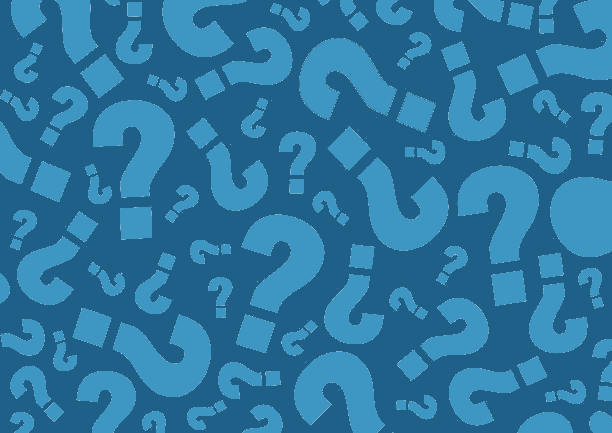
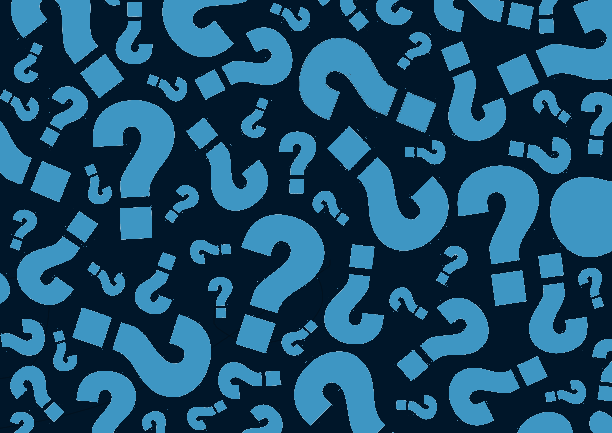
Better dark background + Fixed flashing bug + fixed instant death

diff --git a/src/controller.py b/src/controller.py
@@ -165,7 +165,7 @@ class Controller:
                         sys.exit()
                         
                 #clicking gets mouse pos and checks if buttons were clicked
-                if pygame.mouse.get_pressed()[0]:
+                if event.type == pygame.MOUSEBUTTONUP:
                     position = pygame.mouse.get_pos()
             
                     if self.moore_button.rect.collidepoint(position):#If their guess is more
@@ -192,12 +192,7 @@ class Controller:
                                 self.base_count = self.deck[self.base_number][1]
                                 self.comparison_count = self.deck[self.comparison_number][1]
                                 self.question_label.update(f"{self.base_name} has {self.base_count} tweets. Does {self.comparison_name} have moore or less tweets?")
-                            
 
-                            
-                            #updates display before the short delay
-                                pygame.display.flip()
-                                pygame.time.wait(250)
                             else:
                                 self.state = "END" #If guess is wrong, we end the game
                                 if self.score > self.leaderboard[self.player_name]: #Only updates save & leaderboard if the score is the player's highscore
@@ -229,6 +224,7 @@ class Controller:
                                 self.base_count = self.deck[self.base_number][1]
                                 self.comparison_count = self.deck[self.comparison_number][1]
                                 self.question_label.update(f"{self.base_name} has {self.base_count} tweets. Does {self.comparison_name} have moore or less tweets?")
+                                
                                 
                             else:
                                 self.state = "END" #Guess was incorrect, game ends
